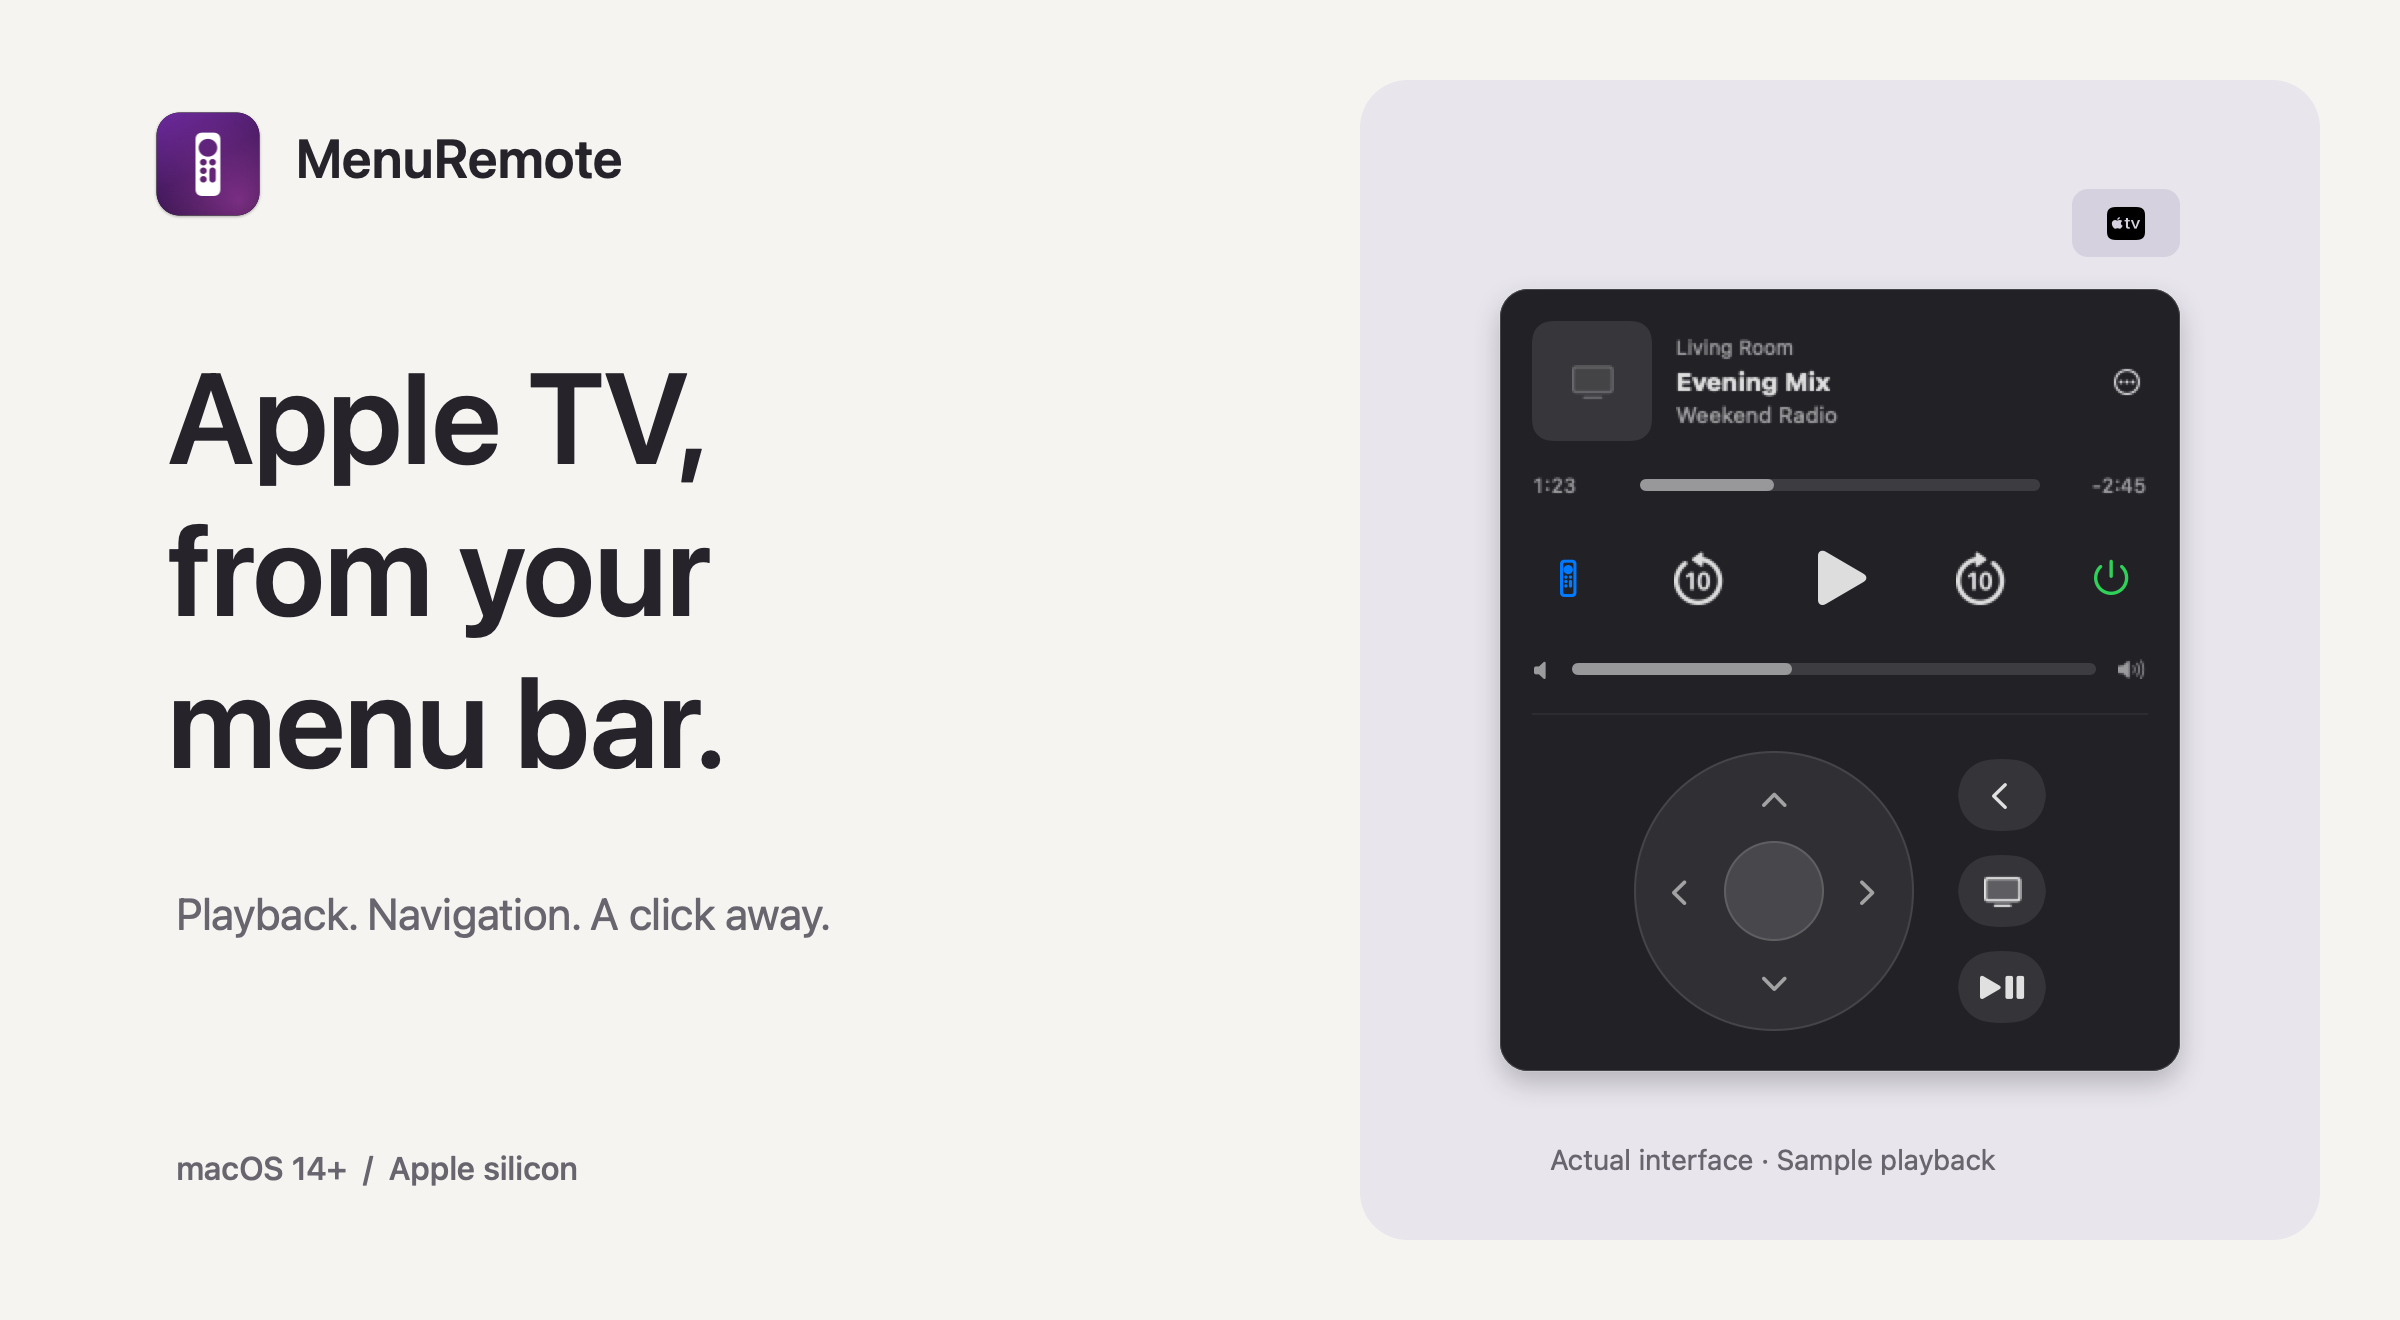
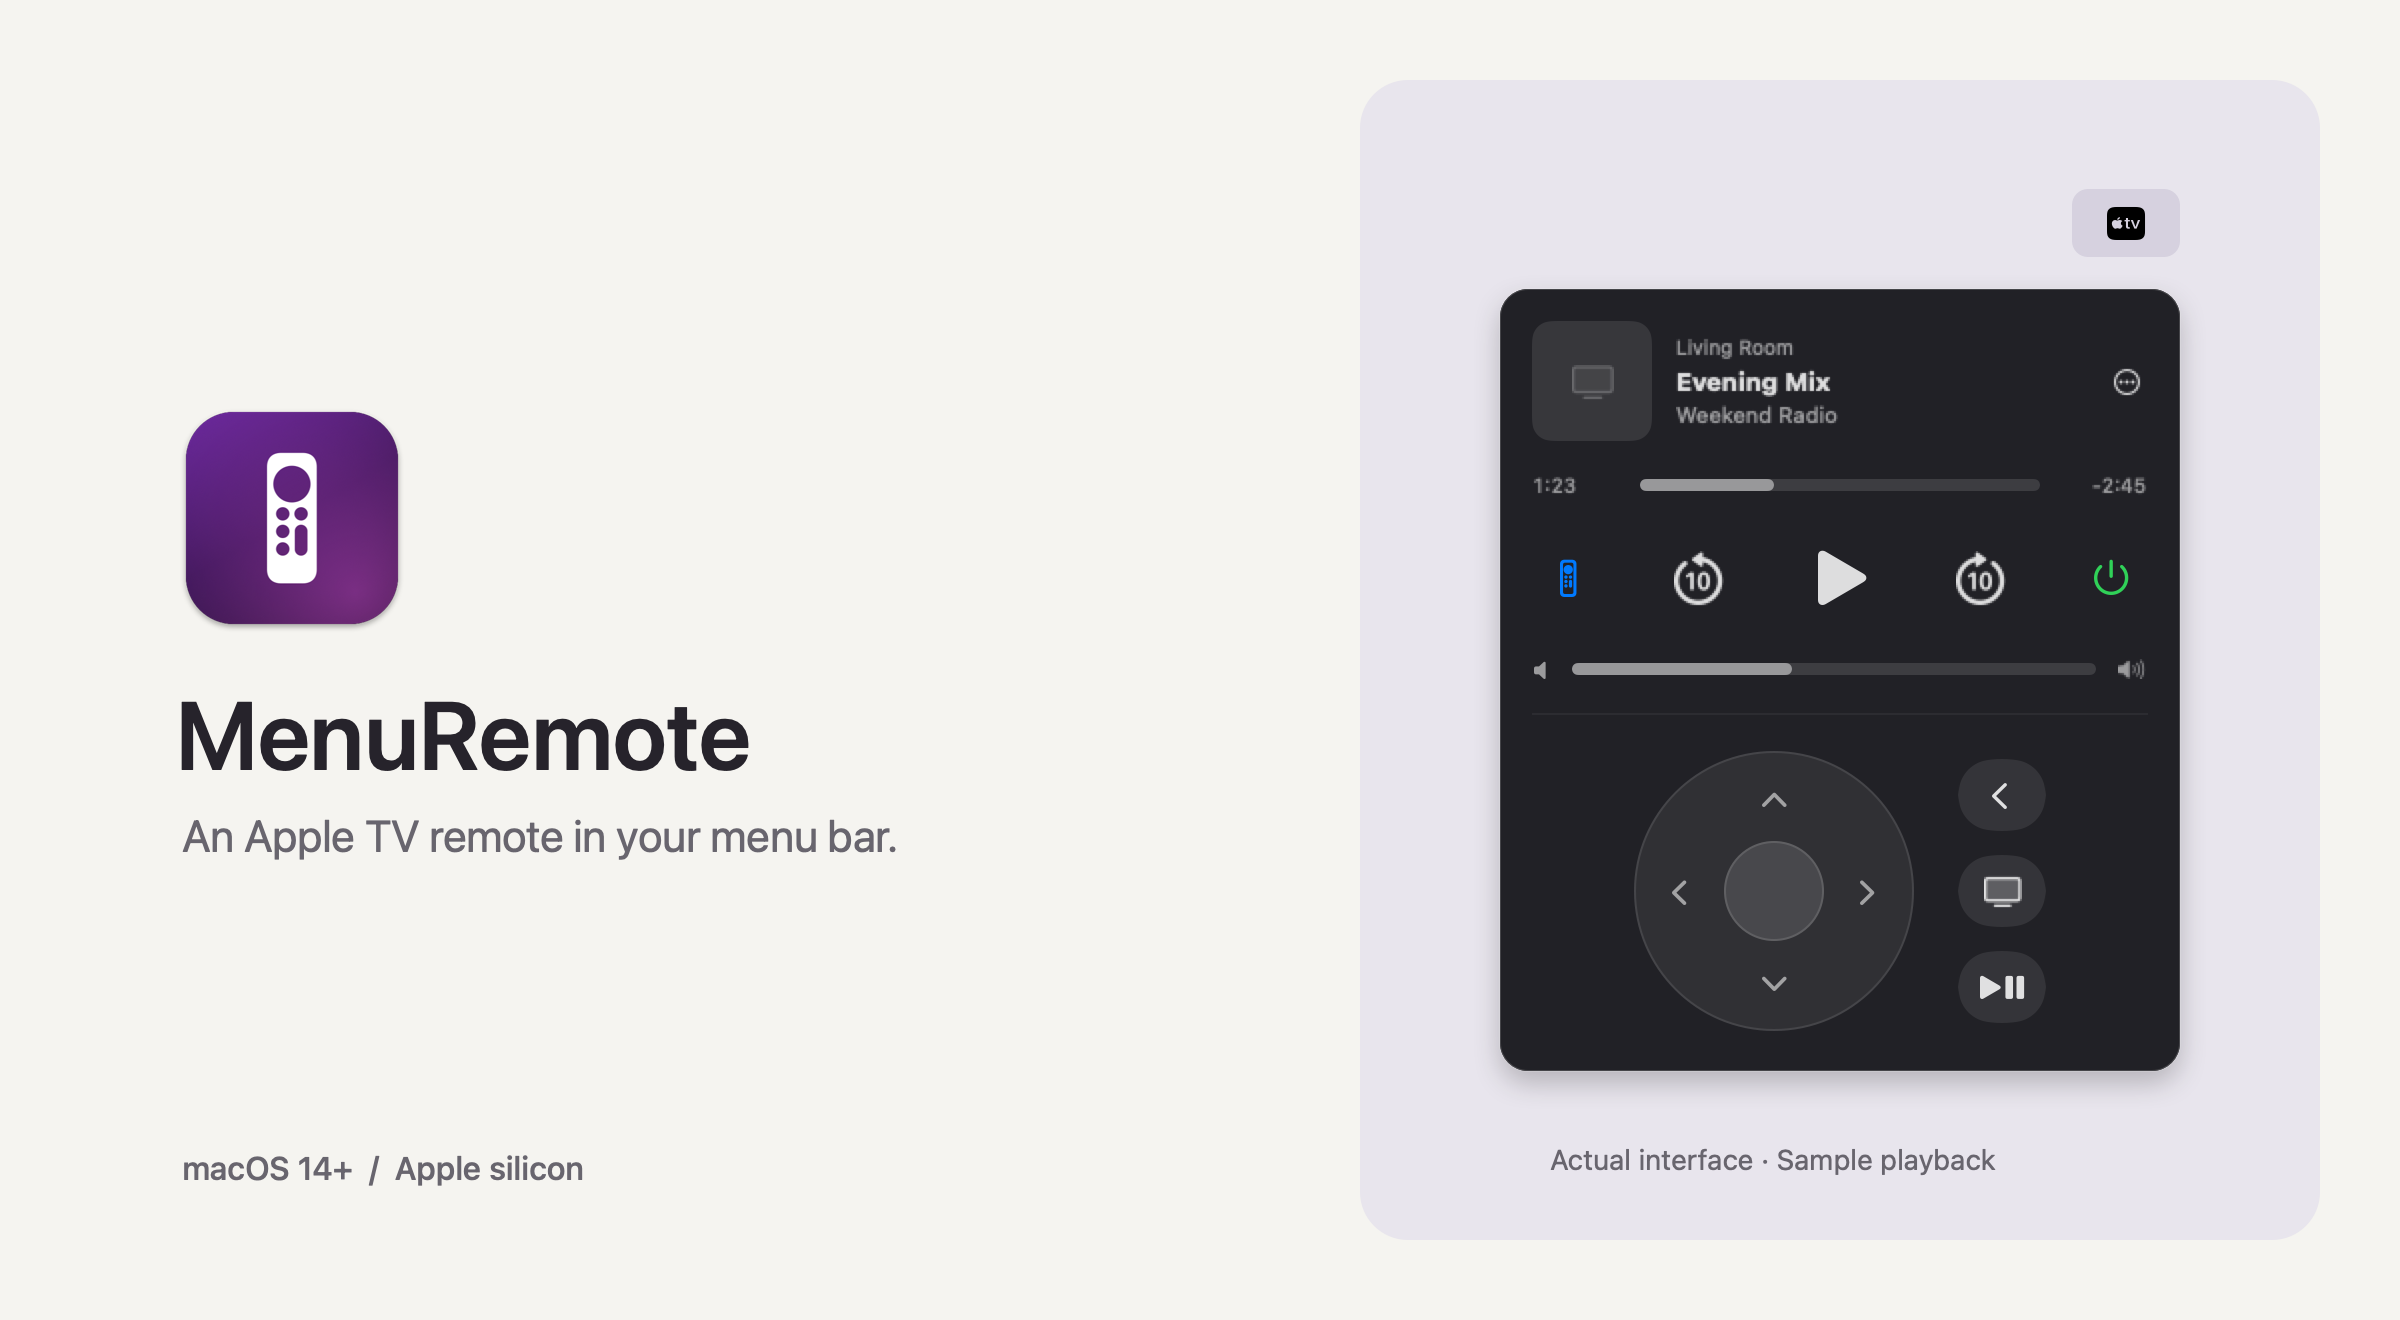
docs: simplify README hero image  Replace the large tagline with prominent app branding and the concise description "An Apple TV remote in your menu bar."  Update the renderer, regenerate the image, and align the README alt text with the new copy.

diff --git a/scripts/render_readme.swift b/scripts/render_readme.swift
@@ -62,6 +62,7 @@ struct ReadmeArtwork {
             bytesPerRow: 0, bitsPerPixel: 0)!
         NSGraphicsContext.saveGraphicsState()
         NSGraphicsContext.current = NSGraphicsContext(bitmapImageRep: bitmap)
+        NSGraphicsContext.current?.imageInterpolation = .high
         let transform = NSAffineTransform()
         transform.scale(by: CGFloat(scale))
         transform.concat()
@@ -73,14 +74,11 @@ struct ReadmeArtwork {
                      xRadius: 24, yRadius: 24).fill()
 
         NSImage(contentsOfFile: "Support/AppIcon.icns")?
-            .draw(in: NSRect(x: 72, y: 546, width: 64, height: 64))
-        text("MenuRemote", x: 148, y: 565, size: 27, weight: .semibold)
-        text("Apple TV,", x: 84, y: 414, size: 64, weight: .semibold)
-        text("from your", x: 84, y: 338, size: 64, weight: .semibold)
-        text("menu bar.", x: 84, y: 262, size: 64, weight: .semibold)
-        text("Playback. Navigation. A click away.", x: 88, y: 190,
+            .draw(in: NSRect(x: 80, y: 335, width: 132, height: 132))
+        text("MenuRemote", x: 88, y: 265, size: 48, weight: .semibold)
+        text("An Apple TV remote in your menu bar.", x: 91, y: 229,
              size: 22, weight: .regular, ink: color(0x68656e))
-        text("macOS 14+  /  Apple silicon", x: 88, y: 66,
+        text("macOS 14+  /  Apple silicon", x: 91, y: 66,
              size: 16, weight: .medium, ink: color(0x68656e))
 
         let panel = NSRect(x: 750, y: (660 - size.height) / 2 - 10,

diff --git a/README.md b/README.md
@@ -1,4 +1,4 @@
-![MenuRemote — Apple TV, from your menu bar. The app interface with sample playback and the remote expanded.](docs/images/menuremote.png)
+![MenuRemote — An Apple TV remote in your menu bar. The app interface with sample playback and the remote expanded.](docs/images/menuremote.png)
 
 <p align="center">
   <img alt="macOS 14 or later" src="https://img.shields.io/badge/macOS-14%2B-222222?logo=apple&amp;logoColor=white">
